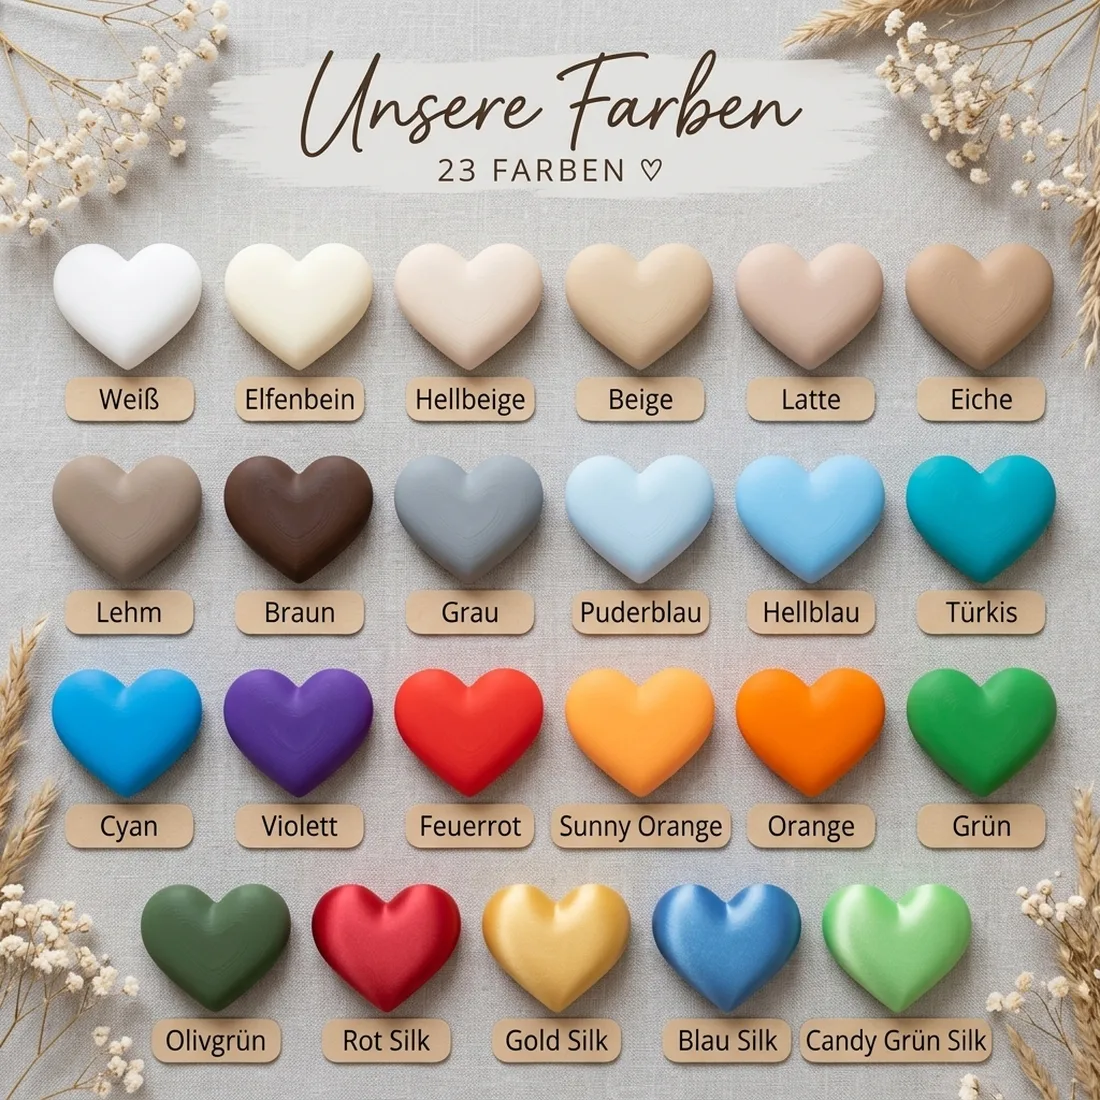
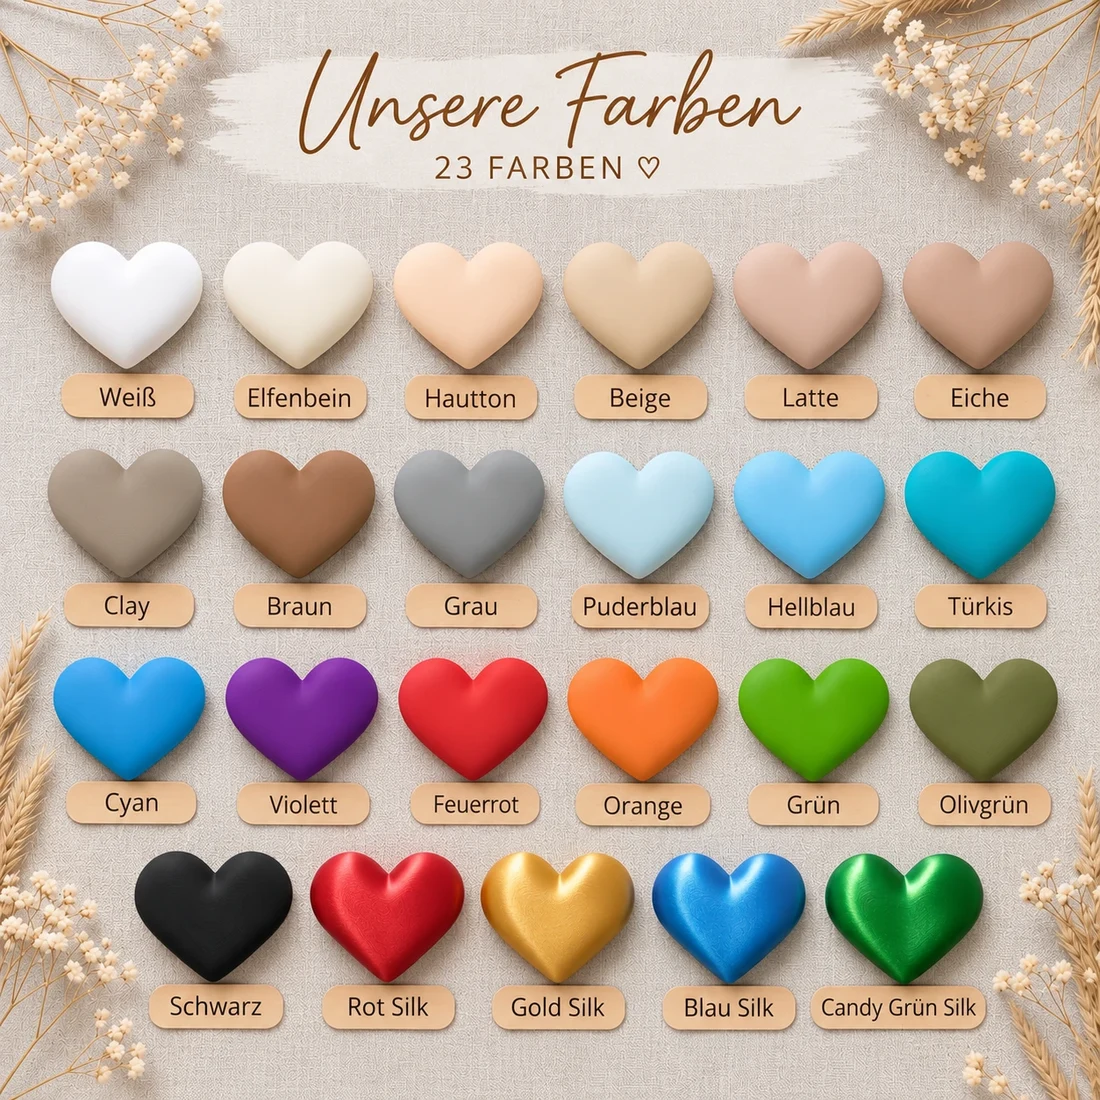
Bubble: Farbauswahl 23 Farben nach echtem Lager (Hautton, Clay, Orange, neue Hex), neue Farbtafel
Claude-Session: https://claude.ai/code/session_01RvNDgfhTBXJQrKe9XmAZEL

diff --git a/lib/shop/produkte.ts b/lib/shop/produkte.ts
@@ -139,13 +139,14 @@ const KOMBI_WOCHENTAG: Farbkombination[] = [
 // Bubble-Buchstaben: feste Farbpalette wie auf Etsy (Alex 17.11.2026), keine Lagerprüfung. Ist eine Spule leer, sperrt Alex die Farbe im Panel
 // (shop_einstellungen "bubble_farben_aus", Farb-IDs kommagetrennt): sie erscheint durchgestrichen und ist nicht bestellbar.
 const BUBBLE_FARBEN: [string, string, string][] = [
-  ["weiss", "Weiß", "#ffffff"], ["elfenbein", "Elfenbein", "#fffff0"], ["hellbeige", "Hellbeige", "#f0e0d6"], ["beige", "Beige", "#d7c4a3"],
-  ["latte", "Latte", "#d3b7a7"], ["eiche", "Eiche", "#c2a59a"], ["lehm", "Lehm", "#978f81"], ["braun", "Braun", "#6d4c41"],
-  ["grau", "Grau", "#808080"], ["schwarz", "Schwarz", "#1c1c1c"], ["puderblau", "Puderblau", "#b8e3e9"], ["hellblau", "Hellblau", "#4fc3f7"],
-  ["tuerkis", "Türkis", "#00acc1"], ["cyan", "Cyan", "#1e64d0"], ["violett", "Violett", "#7b1fa2"], ["feuerrot", "Feuerrot", "#d32f2f"],
-  ["sunny-orange", "Sunny Orange", "#ed7334"], ["orange", "Orange", "#f57c00"], ["gruen", "Grün", "#2ca300"], ["olivgruen", "Olivgrün", "#5a6d3d"],
-  ["rot-silk", "Rot Silk", "#b71c1c"], ["gold-silk", "Gold Silk", "#d4af37"], ["blau-silk", "Blau Silk", "#2a4fc0"], ["candy-gruen-silk", "Candy Grün Silk", "#388e3c"],
+  ["weiss", "Weiß", "#ffffff"], ["elfenbein", "Elfenbein", "#f4f1e8"], ["hellbeige", "Hautton", "#f6dfc6"], ["beige", "Beige", "#e4d8bc"],
+  ["latte", "Latte", "#d3b7a7"], ["eiche", "Eiche", "#c2a59a"], ["lehm", "Clay", "#978f81"], ["braun", "Braun", "#a8785a"],
+  ["grau", "Grau", "#8e9089"], ["schwarz", "Schwarz", "#1a1a1a"], ["puderblau", "Puderblau", "#b8e3e9"], ["hellblau", "Hellblau", "#4fc3f7"],
+  ["tuerkis", "Türkis", "#00acc1"], ["cyan", "Cyan", "#1f8fd6"], ["violett", "Violett", "#7b1fa2"], ["feuerrot", "Feuerrot", "#d32f2f"],
+  ["sunny-orange", "Orange", "#ed7334"], ["gruen", "Grün", "#2ca300"], ["olivgruen", "Olivgrün", "#5a6d3d"],
+  ["rot-silk", "Rot Silk", "#d02727"], ["gold-silk", "Gold Silk", "#f4a925"], ["blau-silk", "Blau Silk", "#008bda"], ["candy-gruen-silk", "Candy Grün Silk", "#018814"],
 ];
+// Farb-IDs bleiben stabil (Panel-Sperre, alte Bestellungen): "hellbeige" heißt jetzt Hautton, "lehm" Clay, "sunny-orange" Orange; "orange" (Bambu) entfällt.
 const FARBEN_BUBBLE: Farbkombination[] = BUBBLE_FARBEN.map(([id, name, hex]) => ({ id, label: name, farben: [{ name, hex }] }));
 const BUBBLE_ZEICHEN = [..."ABCDEFGHIJKLMNOPQRSTUVWXYZ0123456789"].map((c) => ({ id: c.toLowerCase(), label: c }))
   .concat([{ id: "komma", label: "Komma ," }, { id: "punkt", label: "Punkt ." }, { id: "bindestrich", label: "Bindestrich -" }]);
@@ -154,7 +155,7 @@ export const PRODUKTE: Produkt[] = [
   {
     slug: "bubble-buchstabe",
     name: "Bubble Buchstabe",
-    kurz: "Dein Buchstabe, rund und weich wie ein Kissen. 3D-Druck in 24 Farben, 3 bis 15 cm hoch.",
+    kurz: "Dein Buchstabe, rund und weich wie ein Kissen. 3D-Druck in 23 Farben, 3 bis 15 cm hoch.",
     beschreibung:
       "Dein Buchstabe, rund und weich wie ein Kissen. Ich drucke jeden Buchstaben einzeln für dich, in der Farbe, die zu deinem Raum passt. So bestellst du: Höhe wählen, Buchstabe, Zahl oder Zeichen wählen, Farbe wählen, Oberfläche wählen. Für einen ganzen Namen legst du jeden Buchstaben einzeln in den Warenkorb. Material: PLA, matte Oberfläche (die Silk-Farben glänzen leicht). Die Rückseite ist flach, mit Klebepad oder doppelseitigem Klebeband lässt sich der Buchstabe an Wand, Tür oder Regal anbringen. Befestigungsmaterial liegt nicht bei, die Buchstaben stehen nicht von selbst. Die Oberfläche gibt es glatt (klassisch, matt, ebenmäßig) oder als Struktur (fein texturiert, verdeckt kleine Unebenheiten vom Drucken, wirkt lebendig); beide kosten dasselbe. Höhe wie gewählt, die Breite ist je nach Buchstabe unterschiedlich. Bei 3D-Druck sind feine Schichtlinien normal. Farben können je nach Bildschirm leicht abweichen. Jedes Stück wird frisch für dich gedruckt.",
     gruppe: "allgemein", kategorien: ["sonstiges"], form: "rund", grundfarbe: "#e9b8a0",

diff --git a/lib/shop/fotos.ts b/lib/shop/fotos.ts
@@ -7,7 +7,7 @@ const ALT: Record<string, string[]> = {
   // Titelbild (Cover) zuerst, danach die Etsy-Infobilder (Alphabet, Farben, Größen, Oberfläche, Anbringen, Wand, Beispiel) und zwei echte Fotos vom Druck (Alex 17.11.2026)
   "bubble-buchstabe": [
     "Bubble Buchstaben und Zahlen in vielen Farben auf einem Teller, Alphabet von A bis Z",
-    "Die 24 Farben der Bubble Buchstaben als Herzen im Überblick",
+    "Die 23 Farben der Bubble Buchstaben als Herzen im Überblick",
     "Größen und Dicken der Bubble Buchstaben von 3 bis 12 cm im Vergleich",
     "Oberfläche glatt und Struktur im Vergleich am Buchstaben A",
     "So bringst du die Bubble Buchstaben an: Klebepad, positionieren, fertig",
